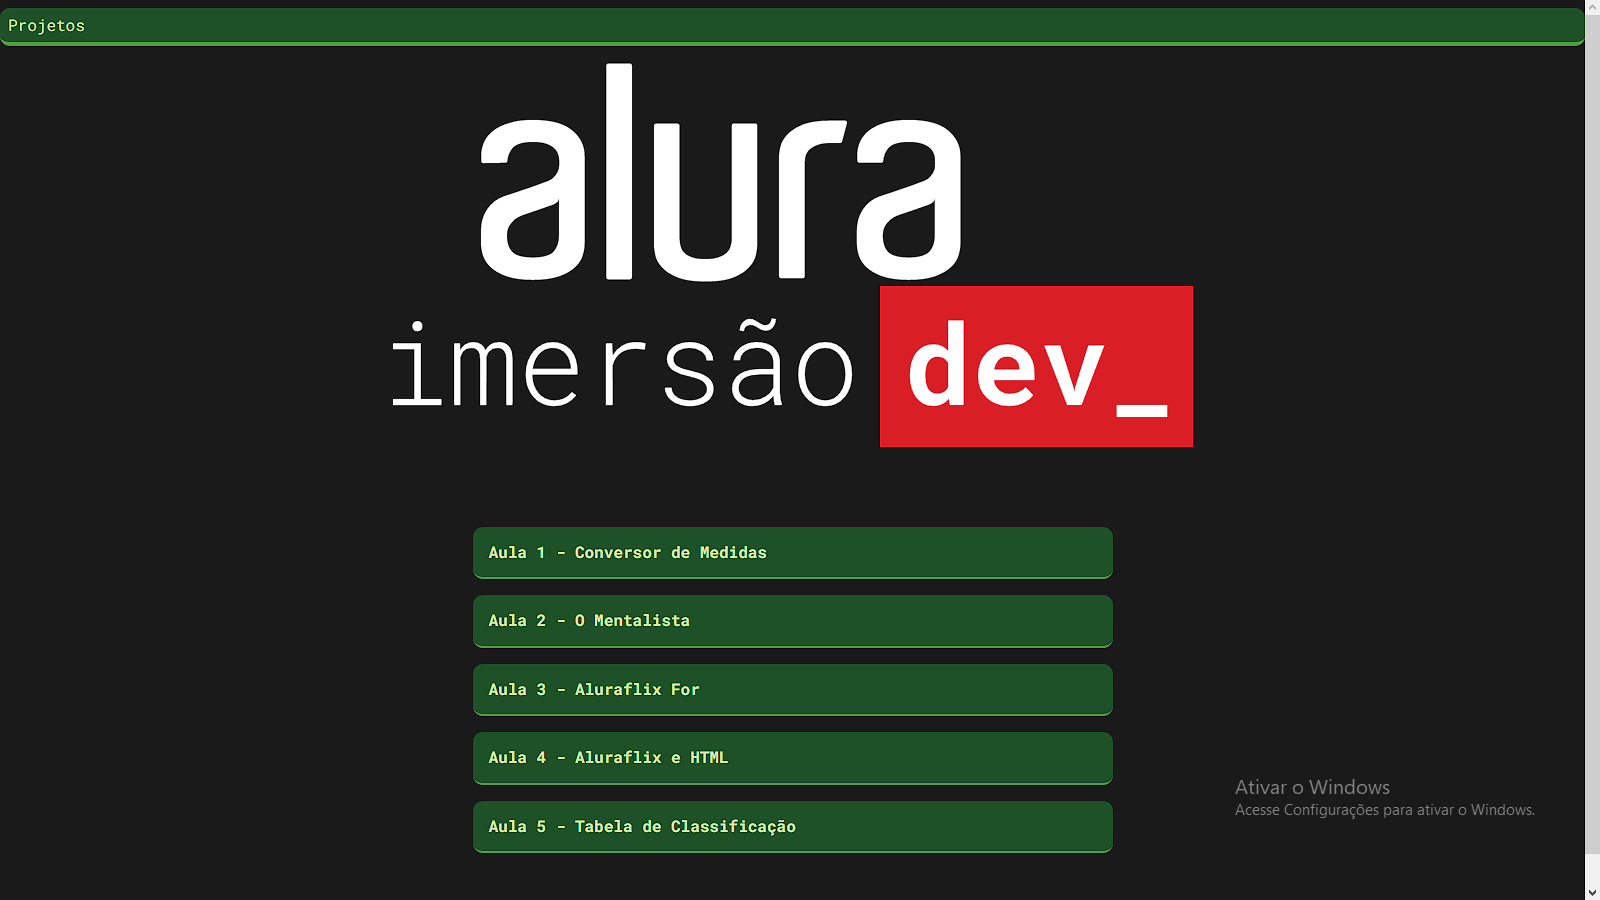
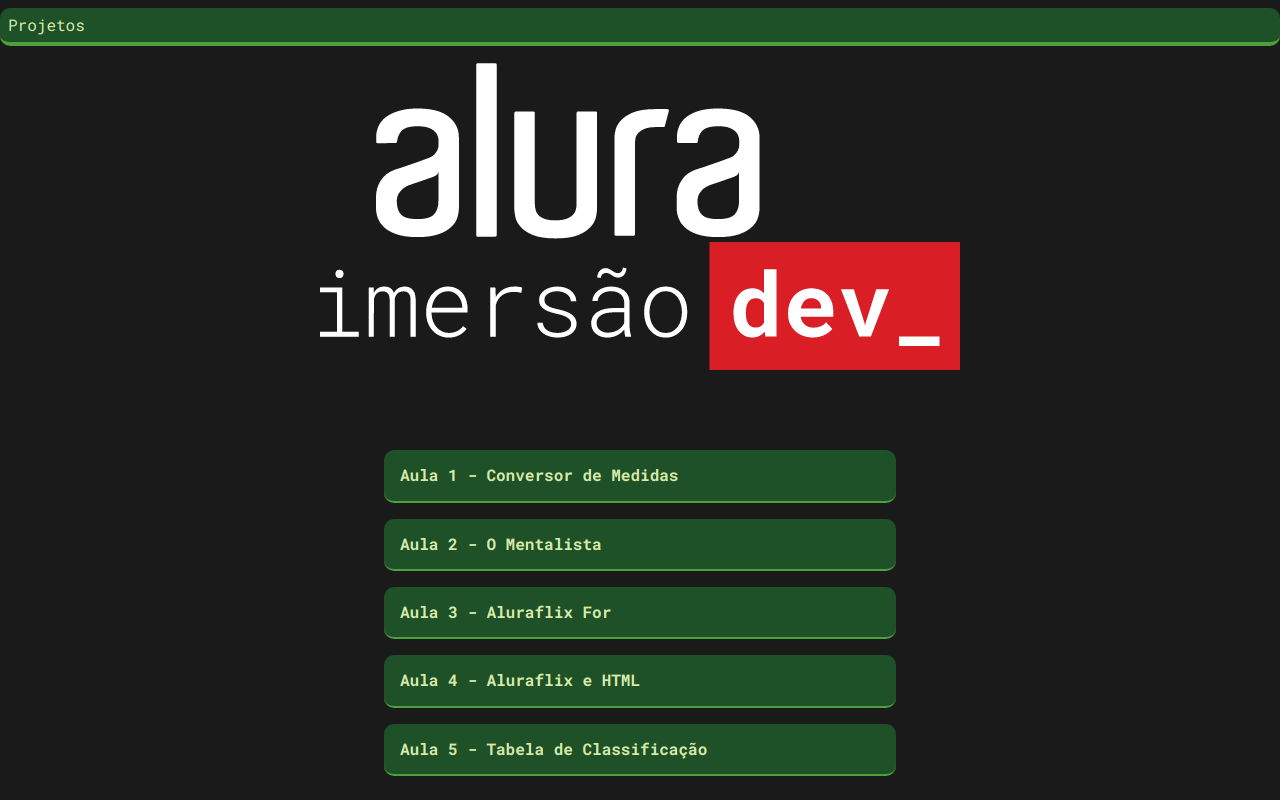
correção de exibição

Changed region(s): [[0.0, 0.0, 1.0, 1.0], [0.2812, 0.5625, 0.7188, 0.9688]]

diff --git a/styles/projetos.css b/styles/projetos.css
@@ -1,11 +1,11 @@
 .card-projeto {
-    width: 60vw;
+    width: 40vw;
     margin-top: 1em;
     padding: 0.5em;
 }
 
 .card-projeto__img {
-    width: 60vw;
+    width: 40vw;
     border-radius: 10px;
 }
 
